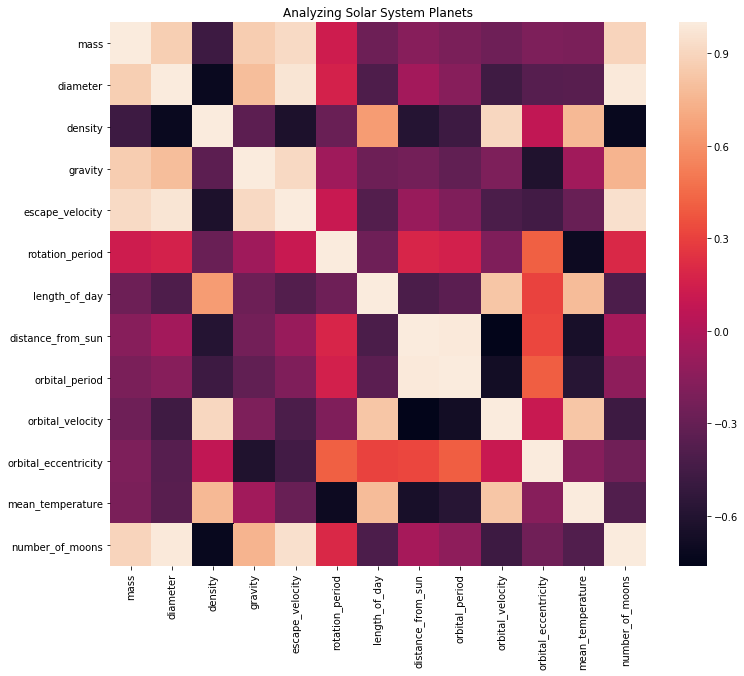
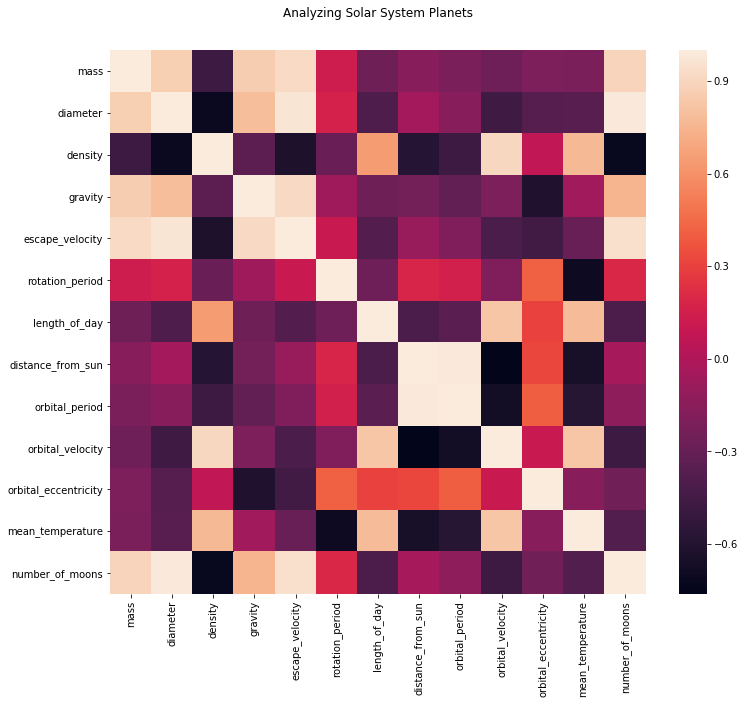
Added KDE for density-diameter

diff --git a/README.md b/README.md
@@ -18,7 +18,11 @@ Spectral-Matching Independent Component Analysis Method
 
 ### Planets Correlation Matrix
 
-![Planets Correlation Heatmap](plots/planets_corr.jpg)
+![Planets Correlation Heatmap](plots/planets_corr.png)
+
+### Kernel Density Estimator of Density and Diameter
+
+![Kernel Density Estimator of Density and Diameter](plots/kde.png)
 
 #### Credits
 
